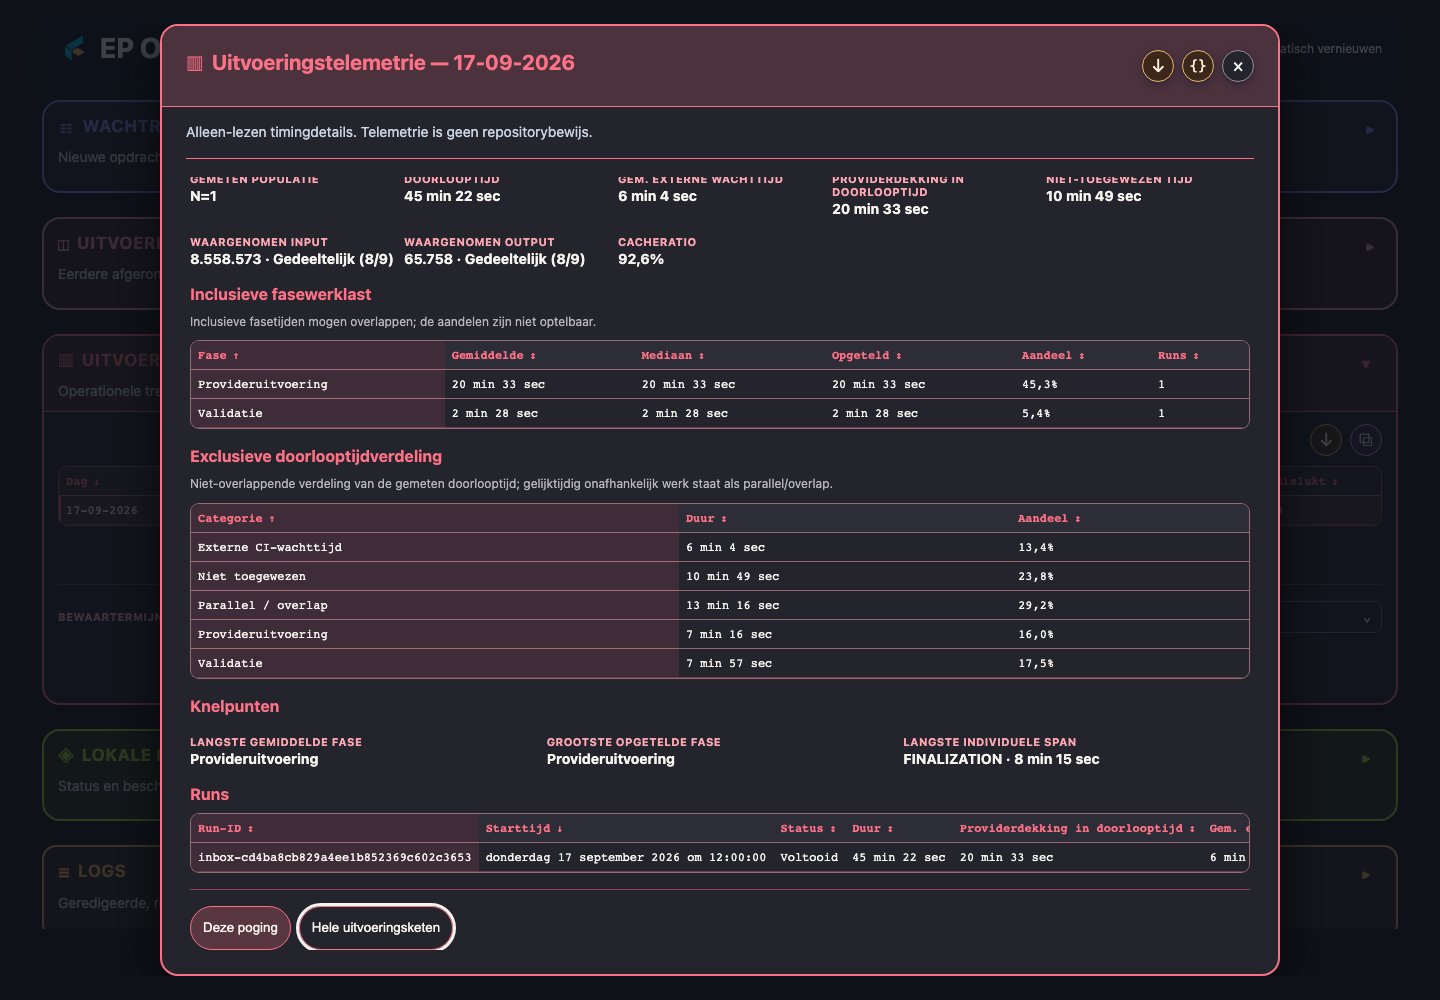
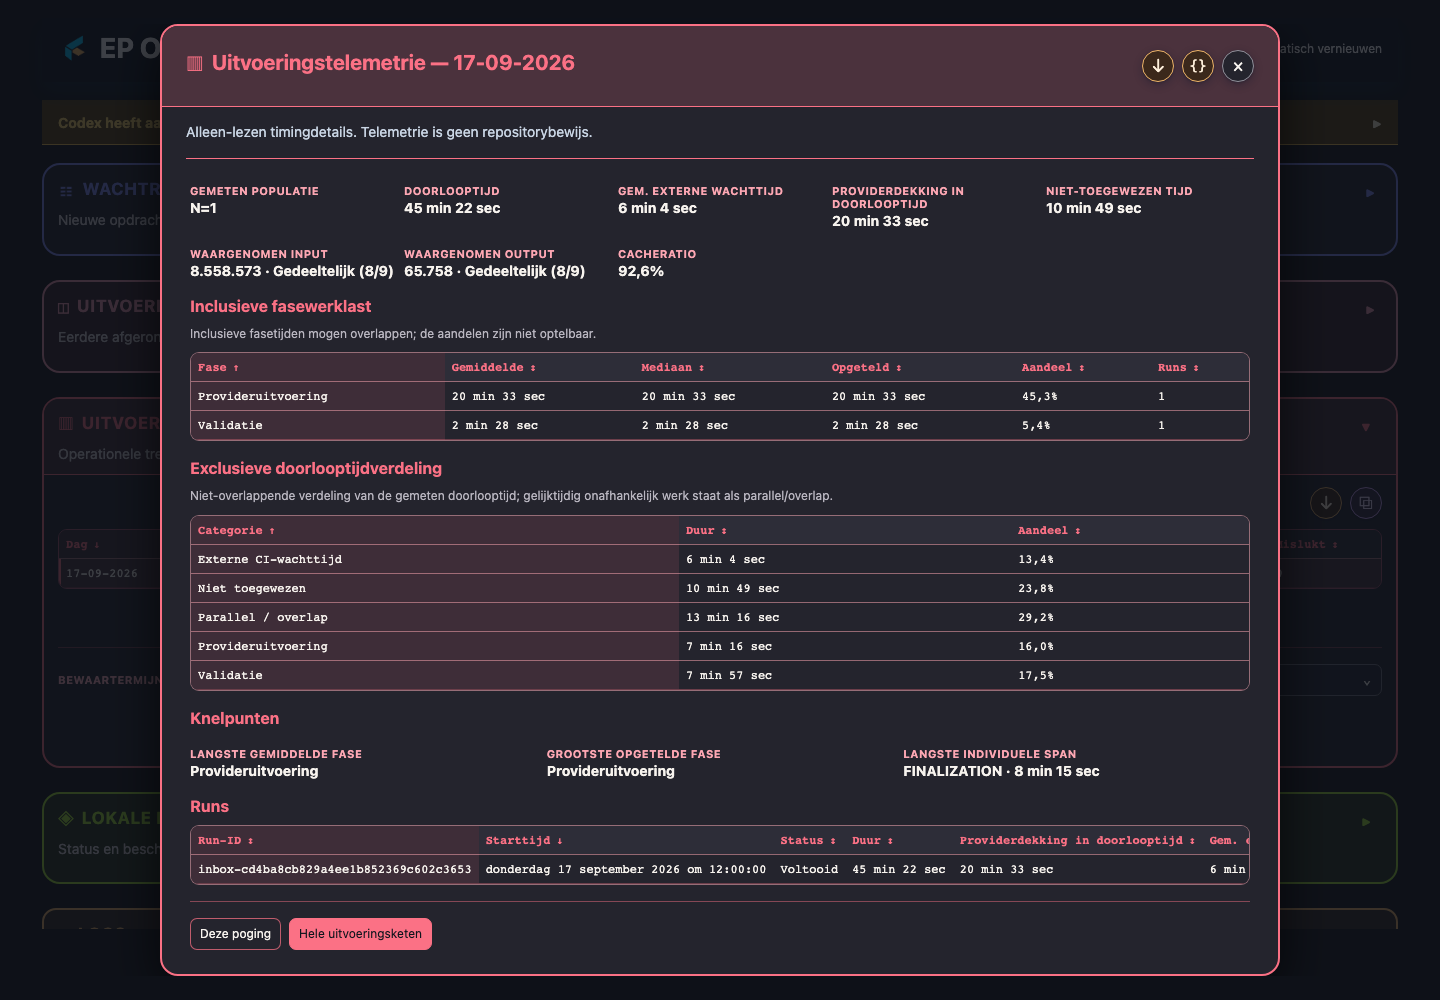
Align telemetry scope controls with dashboard style (#269)

diff --git a/src/engineering_platform/assets/dashboard.css b/src/engineering_platform/assets/dashboard.css
@@ -1328,4 +1328,4 @@ button:where(:not(.theme-toggle,.section-state-toggle,.local-folder-link,.teleme
 html[data-theme="light"] :is(.dashboard-status-banner--provider-auth_required .provider-readiness-banner__action,.configuration-provider-status__row[data-provider-state="AUTH_REQUIRED"] .configuration-provider-status__repair){
   background-color:color-mix(in srgb,#b89025 14%,#fff)!important;
 }
-.telemetry-note{color:var(--dashboard-muted,#b9b6c0);font-size:12px;line-height:1.45;margin:0 0 10px}.telemetry-run-detail{border-top:1px solid color-mix(in srgb,var(--category-color,#fb7185) 45%,transparent);display:grid;gap:16px;margin-top:16px;padding-top:16px}.telemetry-run-detail h4{color:var(--category-color,#fb7185);font-size:14px;margin:14px 0 8px}.telemetry-scope-switcher{display:flex;flex-wrap:wrap;gap:8px}.telemetry-scope-switcher button{background:var(--dashboard-expanded-content-surface,#24242d);border:1px solid var(--category-color,#fb7185);border-radius:999px;color:inherit;padding:7px 12px}.telemetry-scope-switcher button[aria-selected="true"]{background:color-mix(in srgb,var(--category-color,#fb7185) 24%,var(--dashboard-expanded-content-surface,#24242d));font-weight:700}.telemetry-timeline{display:grid;gap:5px;list-style:none;margin:0;padding:0}.telemetry-timeline li{border-left:2px solid color-mix(in srgb,var(--category-color,#fb7185) 60%,transparent);margin-left:calc(var(--timeline-depth,0) * 14px);padding:6px 8px;word-break:break-word}@media(max-width:620px){.telemetry-detail-modal__content .technical-grid{grid-template-columns:minmax(0,1fr)}.telemetry-scope-switcher{position:sticky;top:0;background:var(--dashboard-expanded-content-surface,#24242d);padding-block:6px;z-index:2}.telemetry-timeline li{margin-left:min(calc(var(--timeline-depth,0) * 9px),45px)}}
+.telemetry-note{color:var(--dashboard-muted,#b9b6c0);font-size:12px;line-height:1.45;margin:0 0 10px}.telemetry-run-detail{border-top:1px solid color-mix(in srgb,var(--category-color,#fb7185) 45%,transparent);display:grid;gap:16px;margin-top:16px;padding-top:16px}.telemetry-run-detail h4{color:var(--category-color,#fb7185);font-size:14px;margin:14px 0 8px}.telemetry-scope-switcher{display:flex;flex-wrap:wrap;gap:8px}.telemetry-scope-switcher button{background:var(--dashboard-expanded-content-surface,#24242d);border:1px solid color-mix(in srgb,var(--category-color,#fb7185) 72%,transparent);border-radius:7px;color:inherit;cursor:pointer;font:400 12px/1.2 system-ui;min-height:32px;padding:5px 9px}.telemetry-scope-switcher button:hover{background:color-mix(in srgb,var(--category-color,#fb7185) 14%,var(--dashboard-expanded-content-surface,#24242d));border-color:var(--category-color,#fb7185)}.telemetry-scope-switcher button[aria-selected="true"]{background:color-mix(in srgb,var(--category-color,#fb7185) 24%,var(--dashboard-expanded-content-surface,#24242d));border-color:var(--category-color,#fb7185);box-shadow:inset 3px 0 0 var(--category-color,#fb7185)}.telemetry-scope-switcher button:focus:not(:focus-visible){box-shadow:none!important;outline:0!important}.telemetry-scope-switcher button[aria-selected="true"]:focus:not(:focus-visible){box-shadow:inset 3px 0 0 var(--category-color,#fb7185)!important}.telemetry-timeline{display:grid;gap:5px;list-style:none;margin:0;padding:0}.telemetry-timeline li{border-left:2px solid color-mix(in srgb,var(--category-color,#fb7185) 60%,transparent);margin-left:calc(var(--timeline-depth,0) * 14px);padding:6px 8px;word-break:break-word}@media(max-width:620px){.telemetry-detail-modal__content .technical-grid{grid-template-columns:minmax(0,1fr)}.telemetry-scope-switcher{position:sticky;top:0;background:var(--dashboard-expanded-content-surface,#24242d);padding-block:6px;z-index:2}.telemetry-timeline li{margin-left:min(calc(var(--timeline-depth,0) * 9px),45px)}}
